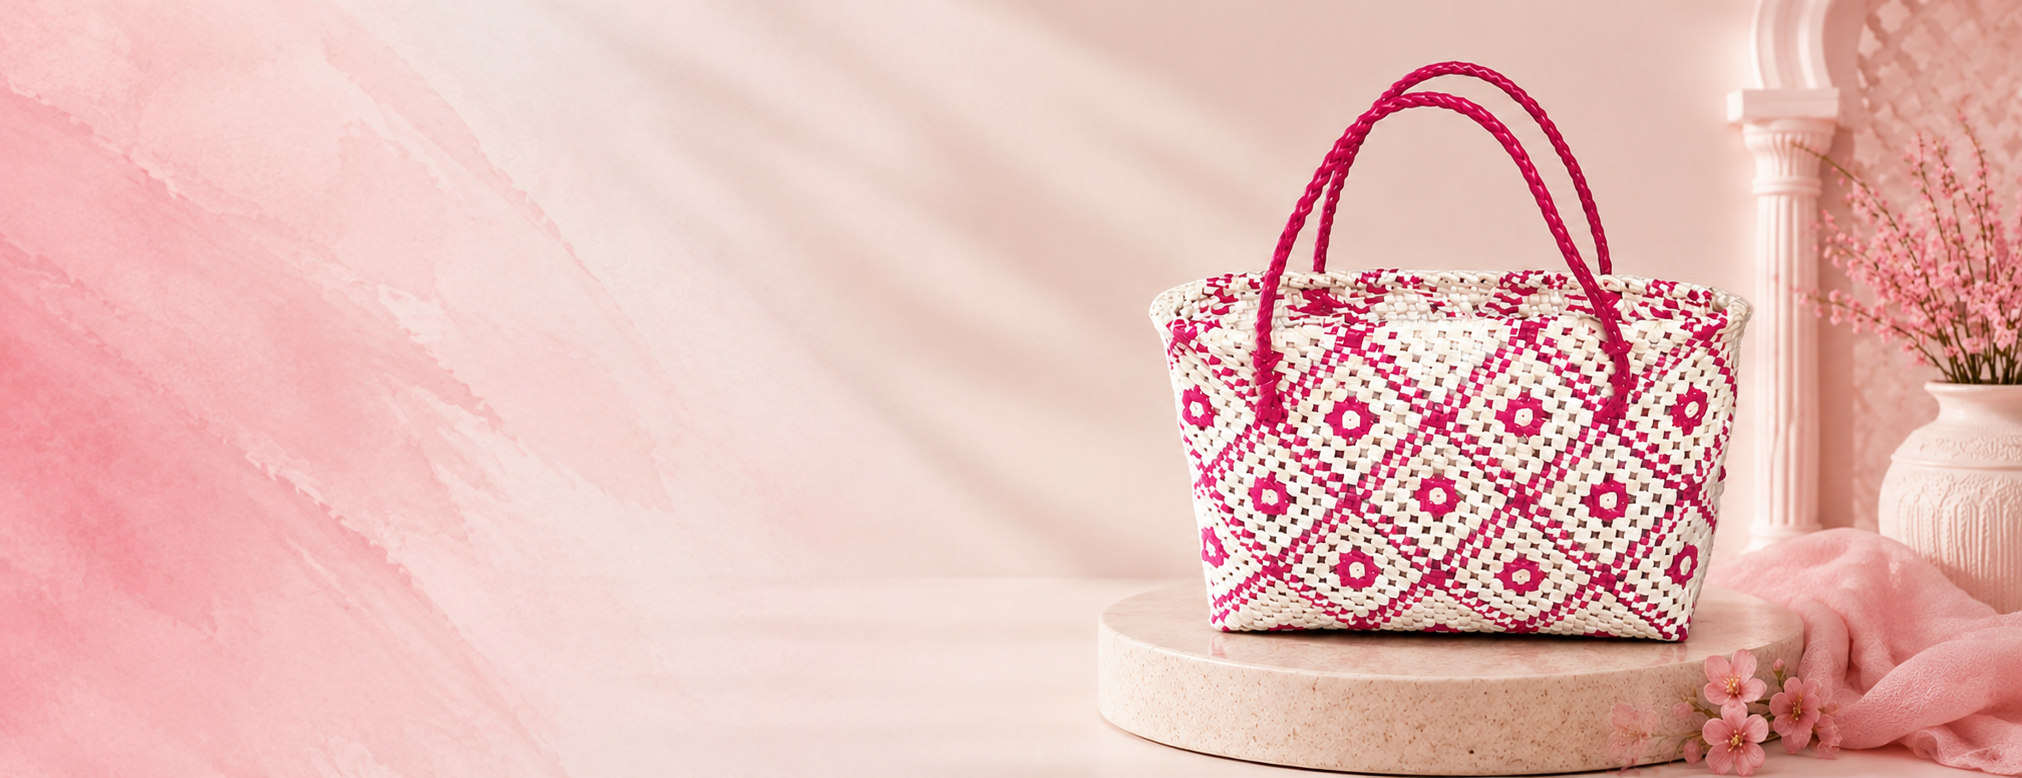
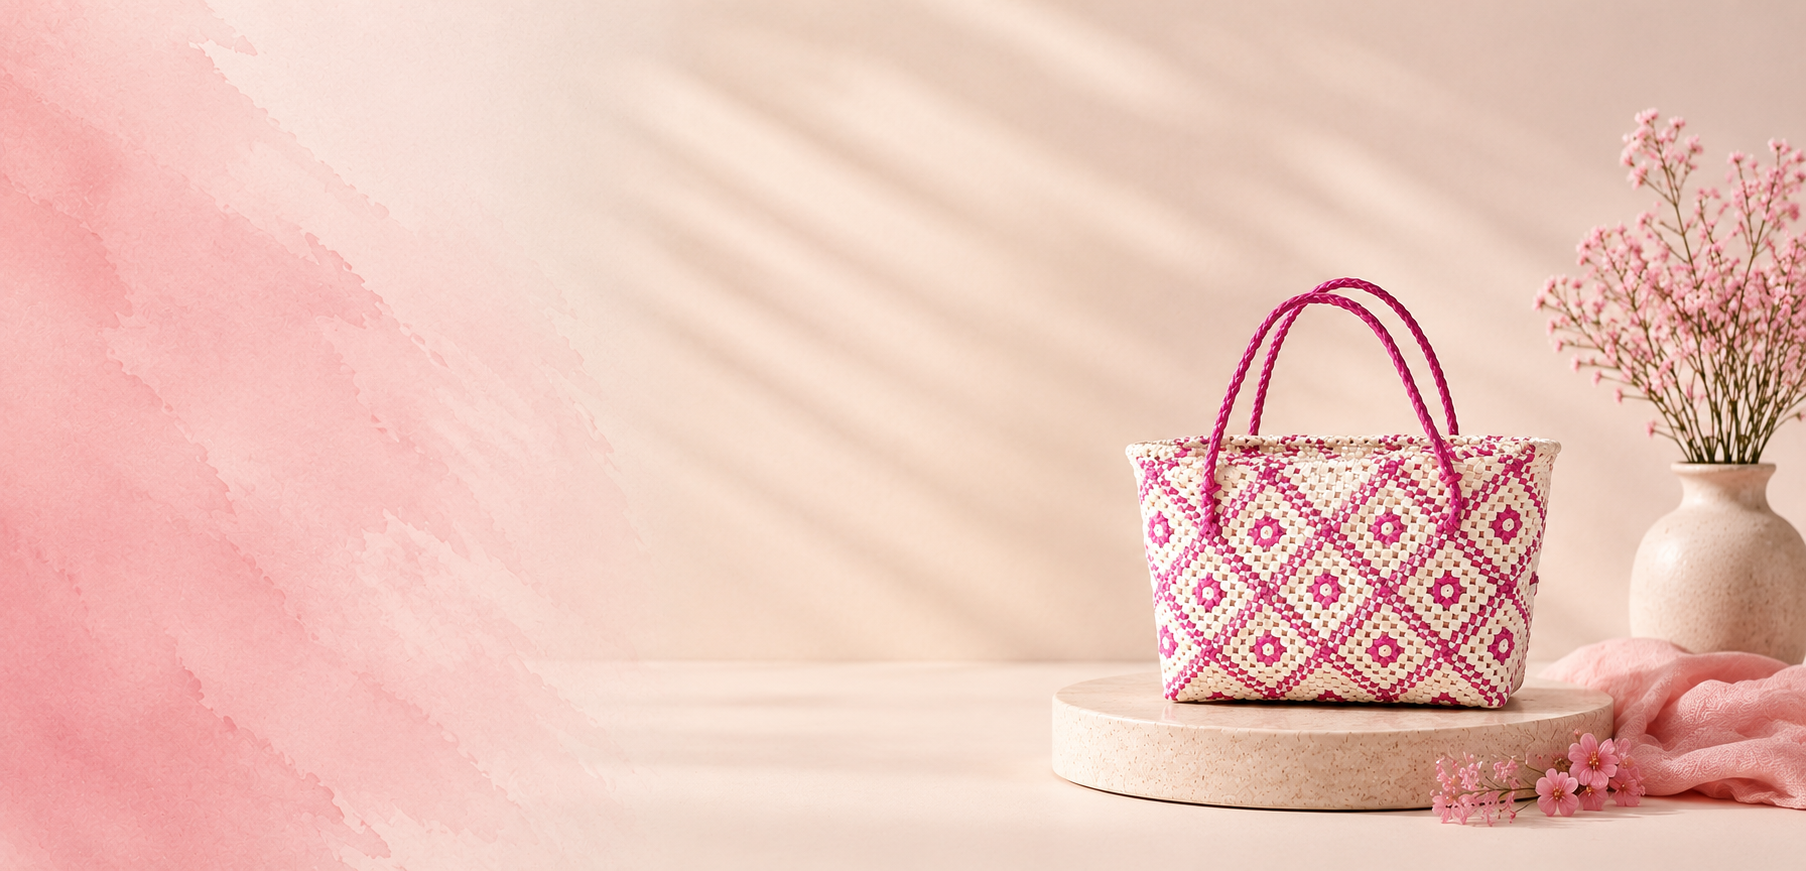
Update homepage layout and mobile responsive design

diff --git a/components/HeroSlider.js b/components/HeroSlider.js
@@ -10,7 +10,6 @@ import "swiper/css/navigation";
 import "swiper/css/pagination";
 
 const slides = [
- 
   {
     image: "/images/banner2.png",
     title: "Eco Friendly Products",
@@ -30,59 +29,67 @@ const slides = [
 
 export default function HeroSlider() {
   return (
-<section className="relative h-[45vh] sm:h-[55vh] md:h-[65vh] lg:h-[75vh]">
-        <Swiper
+    <section className="relative h-[260px] sm:h-[350px] md:h-[500px] lg:h-[650px]">
+      <Swiper
+        className="h-full"
         modules={[Navigation, Pagination, Autoplay]}
-        navigation
-        pagination={{ clickable: true }}
+        navigation={false}
+        breakpoints={{
+          768: {
+            navigation: true,
+          },
+        }}
+        pagination={{
+          clickable: true,
+        }}
         autoplay={{
           delay: 5000,
           disableOnInteraction: false,
         }}
         loop
-        className="h-full"
       >
         {slides.map((slide, index) => (
           <SwiperSlide key={index}>
-            <div className="relative h-[90vh]">
+            <div className="relative h-full w-full">
               <Image
                 src={slide.image}
                 alt={slide.title}
                 fill
                 priority={index === 0}
+                sizes="100vw"
                 className="object-cover"
               />
 
-              <div className="absolute inset-0 bg-gradient-to-r from-black/70 via-black/40 to-transparent" />
+              {/* Overlay */}
+              <div className="absolute inset-0 bg-gradient-to-r from-black/70 via-black/35 to-transparent" />
 
+              {/* Content */}
               <div className="absolute inset-0 flex items-center">
-                <div className="mx-auto w-full max-w-7xl px-6">
-                  <div className="max-w-xl">
-
-                    <h1 className="font-display text-[42px] md:text-[64px] font-medium leading-[1.15] tracking-[-0.02em] text-white">
+                <div className="mx-auto w-full max-w-7xl px-5 md:px-8">
+                  <div className="max-w-xs sm:max-w-md md:max-w-xl">
+                    <h1 className="font-display text-3xl font-medium leading-tight text-white sm:text-4xl md:text-5xl lg:text-6xl">
                       {slide.title}
                     </h1>
 
-                    <p className="mt-5 text-lg text-white/90">
+                    <p className="mt-3 text-sm text-white/90 sm:text-base md:text-lg">
                       {slide.subtitle}
                     </p>
 
-                    <div className="mt-8 flex gap-4">
+                    <div className="mt-6 flex flex-wrap gap-3">
                       <Link
                         href="/products"
-                        className="rounded-full bg-white px-8 py-4 font-semibold text-pink-600"
+                        className="rounded-full bg-white px-5 py-2.5 text-sm font-semibold text-pink-600 transition hover:bg-pink-100 md:px-8 md:py-3"
                       >
                         Shop Now
                       </Link>
 
                       <Link
                         href="/track-order"
-                        className="rounded-full border border-white px-8 py-4 font-semibold text-white"
+                        className="rounded-full border border-white px-5 py-2.5 text-sm font-semibold text-white transition hover:bg-white hover:text-black md:px-8 md:py-3"
                       >
                         Track Order
                       </Link>
                     </div>
-
                   </div>
                 </div>
               </div>

diff --git a/app/page.js b/app/page.js
@@ -44,7 +44,6 @@ export default async function HomePage() {
     <>
       <Navbar />
 
-      <HeroSlider/>
 
 
 
@@ -75,6 +74,7 @@ export default async function HomePage() {
                   src={CATEGORY_IMAGES[cat.name] || "/categroy/default.png"}
                   alt={cat.name}
                   fill
+                  sizes="112px"
                   className="object-cover"
                 />
               </div>
@@ -87,6 +87,9 @@ export default async function HomePage() {
           </div>
         )}
       </section>
+
+     <HeroSlider/>
+
 
       {/* Featured products */}
       {featured.length > 0 && (
